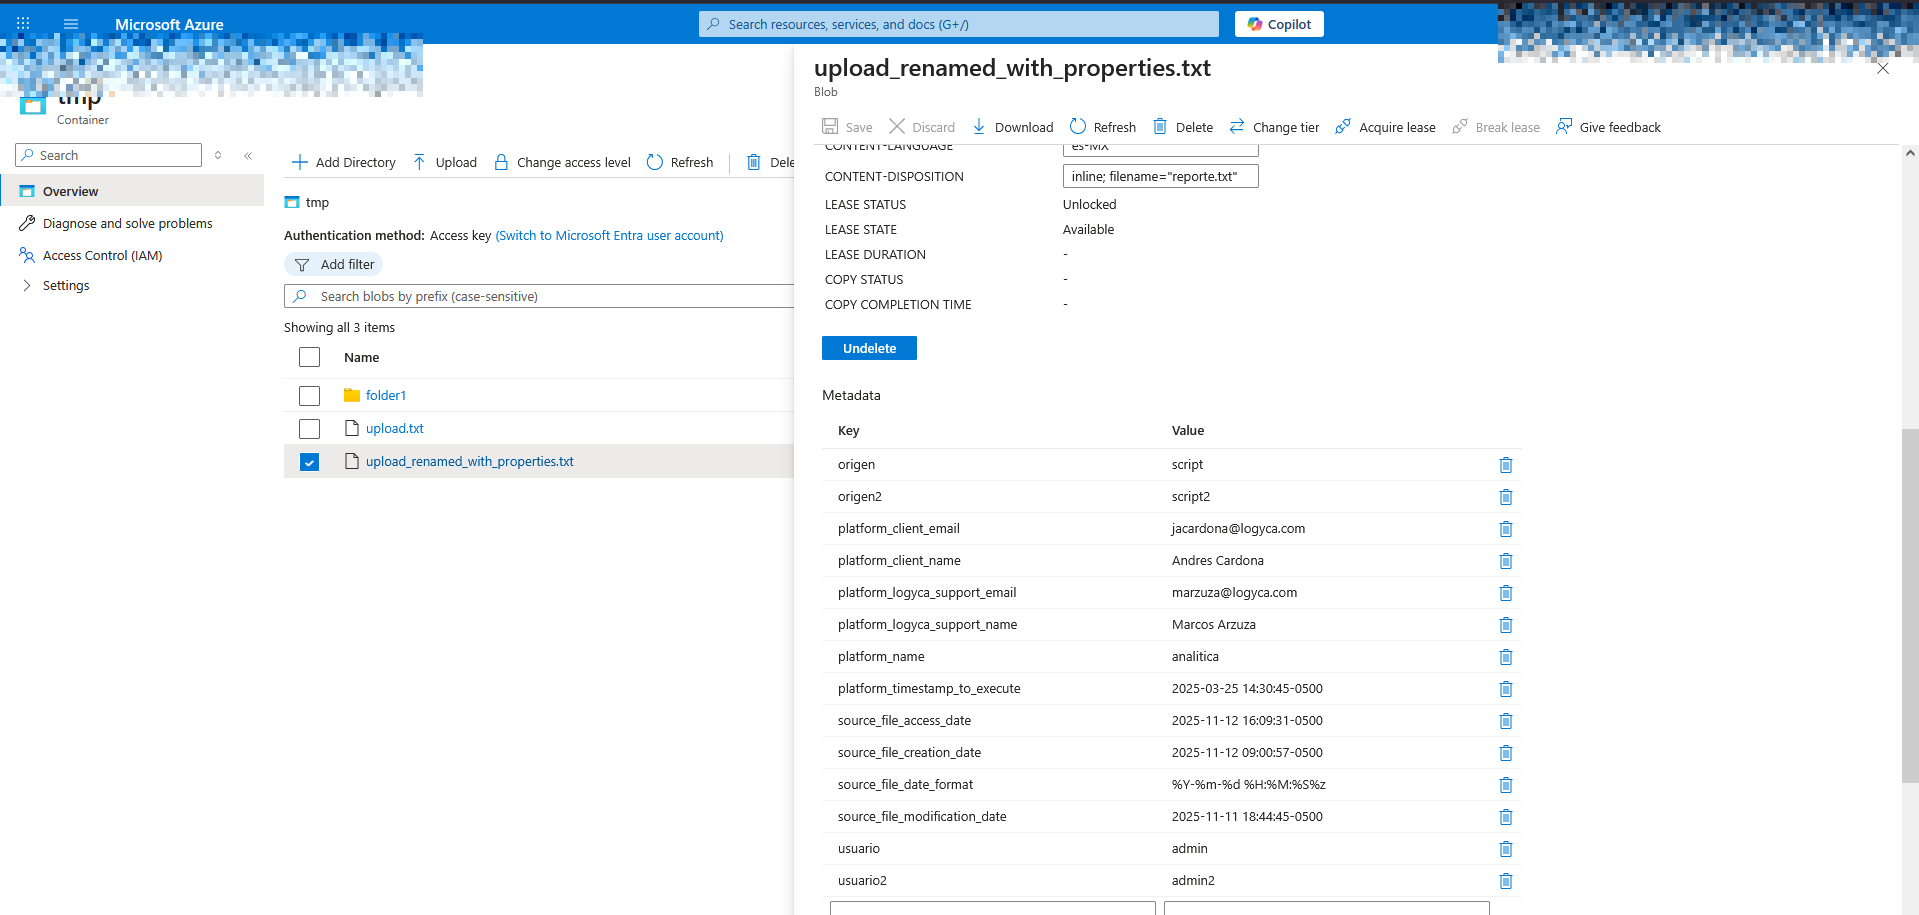
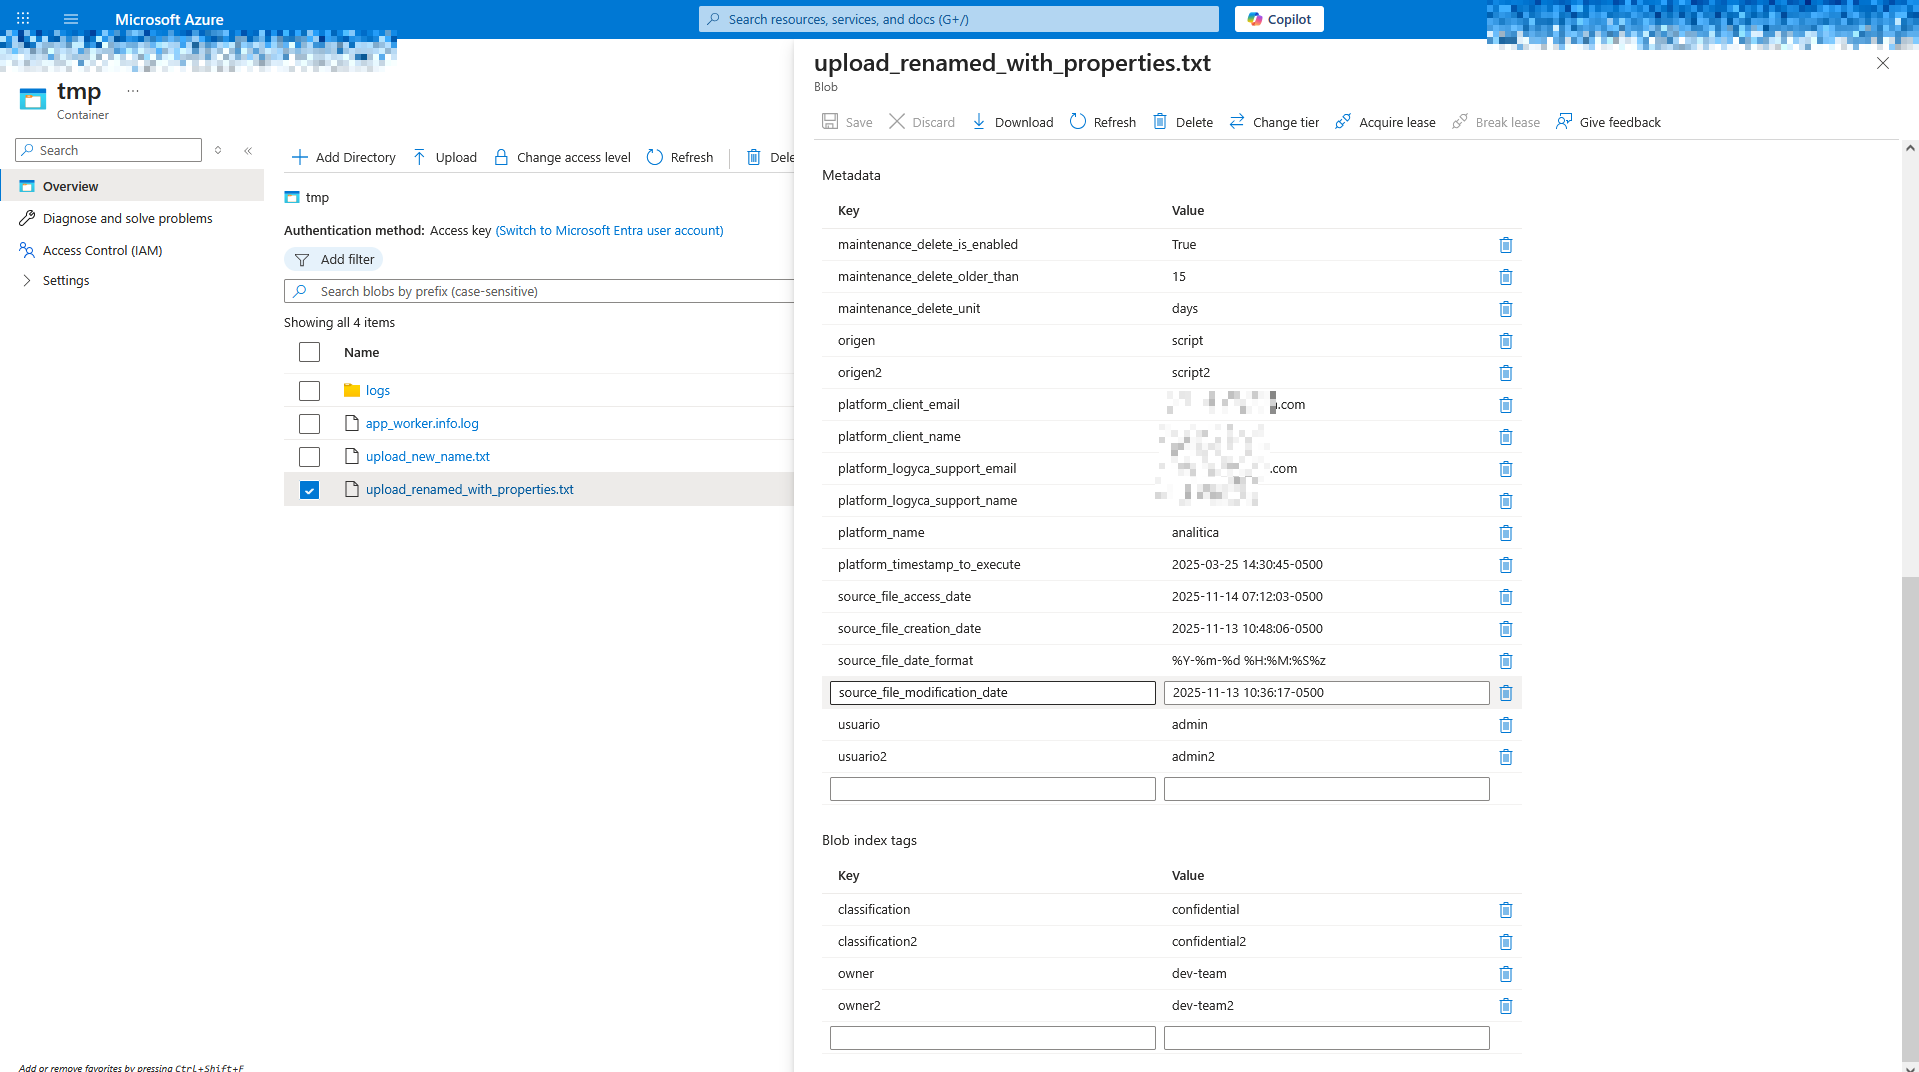
The readme and examples have been improved.

diff --git a/logyca-azure-storage-blob/samples/scripts/python/sample_23_containers_blob_upload_staging_blocks_commit_state_progress_optional.py b/logyca-azure-storage-blob/samples/scripts/python/sample_23_containers_blob_upload_staging_blocks_commit_state_progress_optional.py
@@ -4,6 +4,14 @@ from jaanca_chronometer import Chronometer
 from logyca_azure_storage_blob import AzureStorageAccountBlobManagement, SetCredentialsConnectionString
 import os
 
+"""
+
+    ########################################################################################################################
+    This example demonstrates the functionality but is not currently in use.
+    ########################################################################################################################
+
+"""
+
 asabm=AzureStorageAccountBlobManagement(SetCredentialsConnectionString(connection_string=settings.connection_string))
 print("\n.")
 folder_local_full_path=os.path.abspath(os.path.join(os.path.dirname(__file__),'files'))

diff --git a/logyca-azure-storage-blob/samples/scripts/python/sample_33_containers_blob_container_blob_set_properties.py b/logyca-azure-storage-blob/samples/scripts/python/sample_33_containers_blob_container_blob_set_properties.py
@@ -19,11 +19,18 @@ process = {
     "platform_client_email": "jacardona@logyca.com",
     "platform_timestamp_to_execute": "2025-03-25 14:30:45-0500"
 }
+
+maintenance_policies = {
+    "maintenance_delete_unit": "days",
+    "maintenance_delete_older_than": "15",
+    "maintenance_delete_is_enabled": "True"
+}
+
 metadata = {
     "origen2": "script2",
     "usuario2": "admin2"
 }
-metadata_merge = {**metadata,**process}
+metadata_merge = {**metadata,**process,**maintenance_policies}
 metadata_merge = dict(sorted(metadata_merge.items()))
 content_settings = {
     "cache_control": "max-age=3600",

diff --git a/logyca-azure-storage-blob/samples/scripts/python/sample_63_containers_blob_container_blob_upload_logging.py b/logyca-azure-storage-blob/samples/scripts/python/sample_63_containers_blob_container_blob_upload_logging.py
@@ -11,7 +11,7 @@ print(f"date now: {date_now_prefix}")
 # Example 1 - INFO
 # Container root path
 preffix_name="app_worker"
-message = "text text...\ntext text...\ntext text...\ntext text...\n"
+message = "\ntext glen...\ntext marcos...\nwil...\n"
 status=asabm.container_blob_upload_logging(App.AzureStorageAccount.Containers.NAME_WITH_DATA,LoggingLevels.INFO,preffix_name,message,date_now_prefix)
 if status is True:
     print("blob file message: uploaded...")

diff --git a/logyca-azure-storage-blob/samples/README.md b/logyca-azure-storage-blob/samples/README.md
@@ -1,20 +1,41 @@
-#  🧱 logyca-azure-storage-blob
+# 🧱 Project Description
+
+📝 Nombre: logyca-azure-storage-blob
 
 🧰 Examples of SDK calls to interact with the Azure Storage blob container service using Python
 
-🐍 In this examples folder, you'll find console scripts for tasks such as uploading, downloading, modifying properties, deleting, and searching for files by modification date.
+In this examples folder, you'll find console scripts for tasks such as uploading, downloading, modifying properties, deleting, and searching for files by modification date.
 
 ```console
 pip install -r .\requirements.tx
 ```
-# Azure Storage account access keys
 
-- 🔒 Copy the environment variable template located in the root of the `.env.sample` directory to a file named `.env` in the same directory.
-- 🔐⚠ Obtain the access keys and write them to `.env`
+# Project Structure
+
+```
+.
+├── .vscode/                   # VS Code workspace settings folder
+├── docs/                      # Documentation files
+├── scripts/                   # Folder for supporting scripts
+├── venv/                      # Virtual environment folder
+├── .env                       # Environment variables that must be created based on .env.sample
+├── .env.sample                # Sample environment variables without sensitive data
+├── .gitignore                 # Git ignore file to exclude unnecessary files
+├── main.ps1                   # PowerShell file that automates the creation of prerequisites and running the first sample script.
+├── pdtes.md                   # Markdown file for additional documentation
+├── README.md                  # Project overview and setup guide
+├── requirements.txt           # List of Python dependencies
+```
+
+# ☁🛢 Azure Storage account | 🛡 🔐 access keys
+
+- Copy the environment variable template located in the root of the `.env.sample` directory to a file named `.env` in the same directory.
+- 🗝 Obtain the access keys and write them to `.env`
 
 # 🧠 Examples of SDK calls to interact with the Azure Storage Account Blob Container Service using Python
 
-The sample scripts are designed to run sequentially. Therefore, the credentials in the .env environment variable file are tested initially, followed by the creation of test containers.
+The sample scripts are designed to run sequentially.
+Therefore, the credentials in the `.env` environment variable file are tested initially, followed by the creation of test containers.
 Then, the scripts perform actions such as loading, unloading, modifying properties, deleting, and searching for files by modification date.
 
 The sequence is: sample_01..sample_99
@@ -23,6 +44,7 @@ The sequence is: sample_01..sample_99
 
 | **Description**                                                                          | **Location / Link**                                                                        |
 | ---------------------------------------------------------------------------------------- | ------------------------------------------------------------------------------------------ |
+| Main documentation file. Provides general overview, installation and usage instructions. | [README.md](README.md)                                                                     |
 | Development setup using **Visual Studio Code**.                                          | [Developed using Microsoft Visual Studio Code](docs/software-development-vscode-tool.md)   |
 | Alternative development setup using other tools or console.                              | [Developed with another tool or via console](docs/software-development-another-tool.md)    |
 | Troubleshooting related to logging configuration and errors.                             | [Logging troubleshooting](docs/troubleshooting-logging.md)                                 |

diff --git a/logyca-azure-storage-blob/samples/docs/software-development-vscode-tool.md b/logyca-azure-storage-blob/samples/docs/software-development-vscode-tool.md
@@ -1,27 +1,79 @@
 [← Return to the main README](../README.md "Return to the main project file")
 
-# Developed using Microsoft Visual Studio Code
+# 🖥 Developed using Microsoft Visual Studio Code
 
 The automation files, used to prepare the virtual environment and run the scripts, are located in the `.vscode` folder.
 
-tasks.json
+## File Descriptions
 
-    - task: PowerShell Create virtual environment
-      
-      Once the Python version has been selected and installed, the disk path to python_bin is configured to create the virtual environment. Commands are executed in the samples root folder.
+  📄 File: `tasks.json`. 👉 Documented below:  🧭 Running *Tasks*
 
-    - task: PowerShell Delete Temporary Files:
+      - task: PowerShell Create virtual environment
+        
+        Once the Python version has been selected and installed, the disk path to python_bin is configured to create the virtual environment. Commands are executed in the samples root folder.
 
-      venv/
-      tmp/
-      logs/
+      - task: PowerShell Delete Temporary Files:
 
-launch.json
+        venv/
+        tmp/
+        logs/
 
-    Once created in a virtual environment, from vscode, by clicking on a file, for example: scripts/python/sample_01_connection_status.py, proceed to use the "Run and Debug (Ctrl+Shift+D)" option, which executes <sample>.py using the virtual environment.
+  📄 File: `launch.json`. 👉 Documented below:  🐞 Running *Launch Configurations*
 
-```console
-.\venv\Scripts\python.exe <sample>.py
-```
+      Once created in a virtual environment, from vscode, by clicking on a file, for example: scripts/python/sample_01_connection_status.py, proceed to use the "Run and Debug (Ctrl+Shift+D)" option, which executes <sample>.py using the virtual environment.
+
+      The script will be executed using the assigned virtual environment binary.
+      > .\venv\Scripts\python.exe ... <sample>.py
+
+## ▶ Execution modes 
+
+### 🧭 Running *Tasks*
+
+#### ⌨ Keyboard method
+
+1. Press:  
+   **Ctrl + Shift + P** (Windows / Linux)  
+   **Cmd + Shift + P** (macOS)
+2. Type:  
+   **Tasks: Run Task**
+3. Press **Enter**
+4. Select the task you want to run.
+
+---
+
+#### 🖱 Mouse method
+
+1. Open the menu:  
+   **View → Command Palette…**
+2. Type **Tasks: Run Task**
+3. Click on the option.
+4. Select the task from the list.
+
+### 🐞 Running *Launch Configurations* (Run / Debug)
+
+Launch configurations in `.vscode/launch.json` allow running or debugging Python scripts in a controlled way.
+
+#### ⌨ Keyboard method
+
+- **F5** → Start debugging  
+- **Ctrl + F5** → Run without debugging  
+
+To select another configuration:
+
+1. Press **Ctrl + Shift + P**
+2. Type: **Debug: Select and Start Debugging**
+3. Select the desired launch configuration.
+
+---
+
+#### 🖱 Mouse method
+
+1. Open the **Run and Debug** view (icon ▶🐞).
+2. At the top, select the launch configuration from the dropdown menu.
+3. Click:
+   - ▶ **Run** to execute  
+   - ▶🐞 **Start Debugging** to debug  
+
+
 
 [← Return to the main README](../README.md "Return to the main project file")

diff --git a/logyca-azure-storage-blob/samples/docs/software-development-another-tool.md b/logyca-azure-storage-blob/samples/docs/software-development-another-tool.md
@@ -1,8 +1,8 @@
 [← Return to the main README](../README.md "Return to the main project file")
 
-# Developed with another tool or via console
+# 🖥 Developed with another tool or via console
 
-## Creation of the virtual environment
+## 🐍 Creation of the virtual environment
 
 🧰 Install Python on your operating system and locate the binary.
 🔍📁 For this documentation, Python 3.11 has been downloaded and installed, and the binary is located in this path
@@ -22,7 +22,7 @@ Run the file
 
 ## Manual procedure
 
-## Python Virtual environment
+## 🐍 Python Virtual environment
 
 🧰 Open a console to run the following commands for the first time.
 🔍📁 Navigate to the root of the samples directory and open a PowerShell console.
